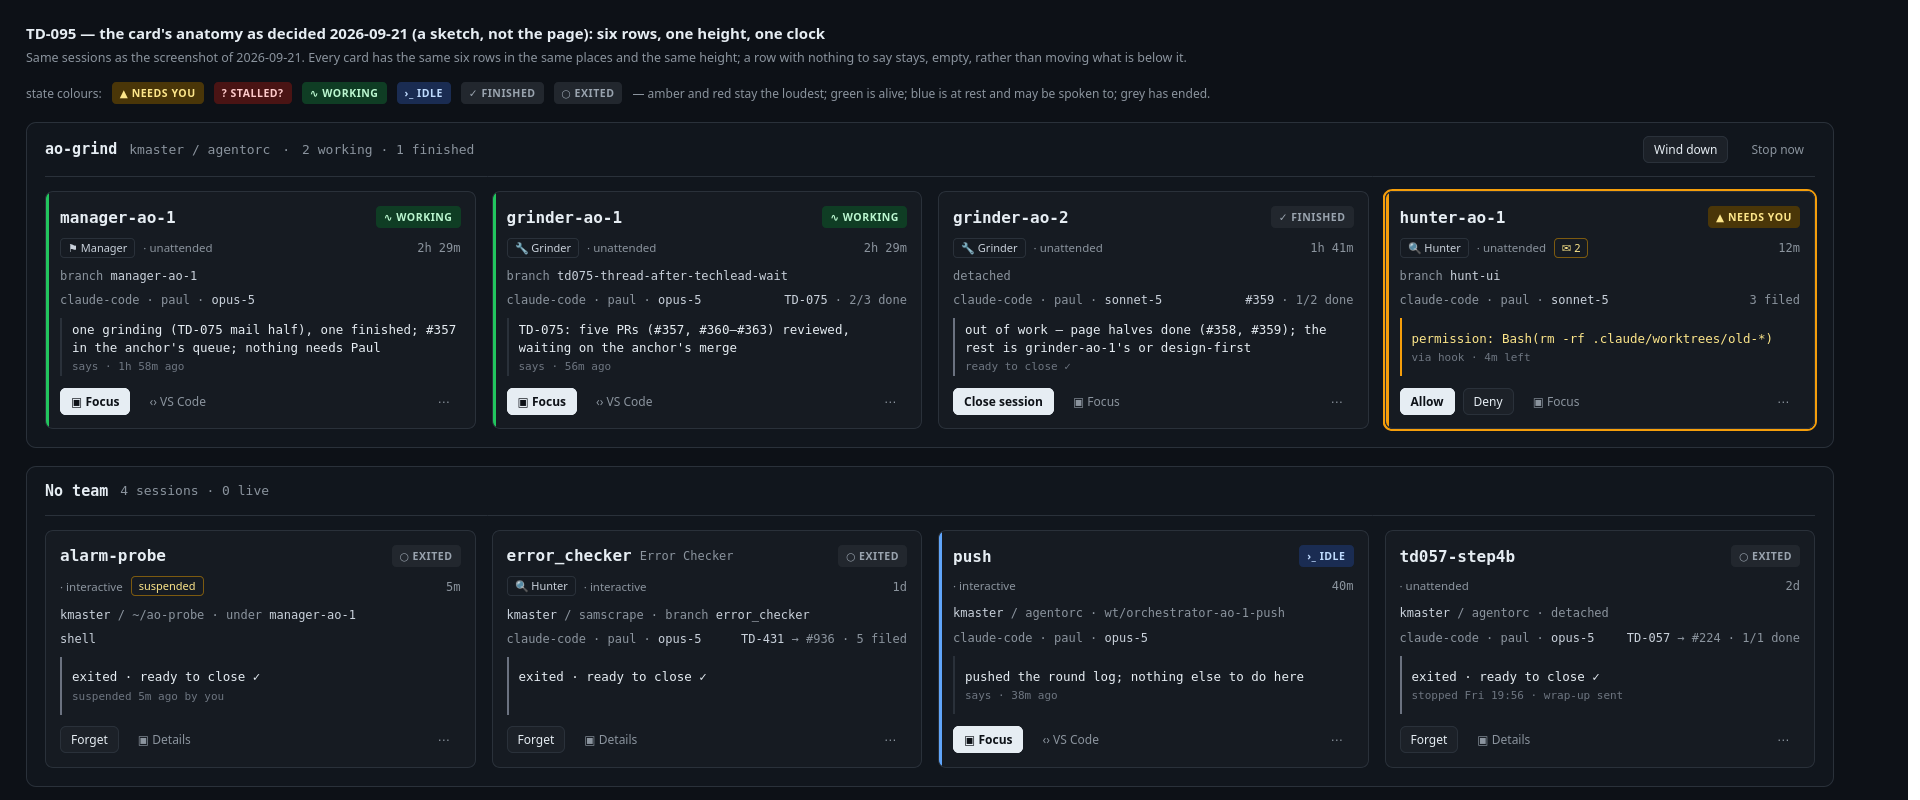
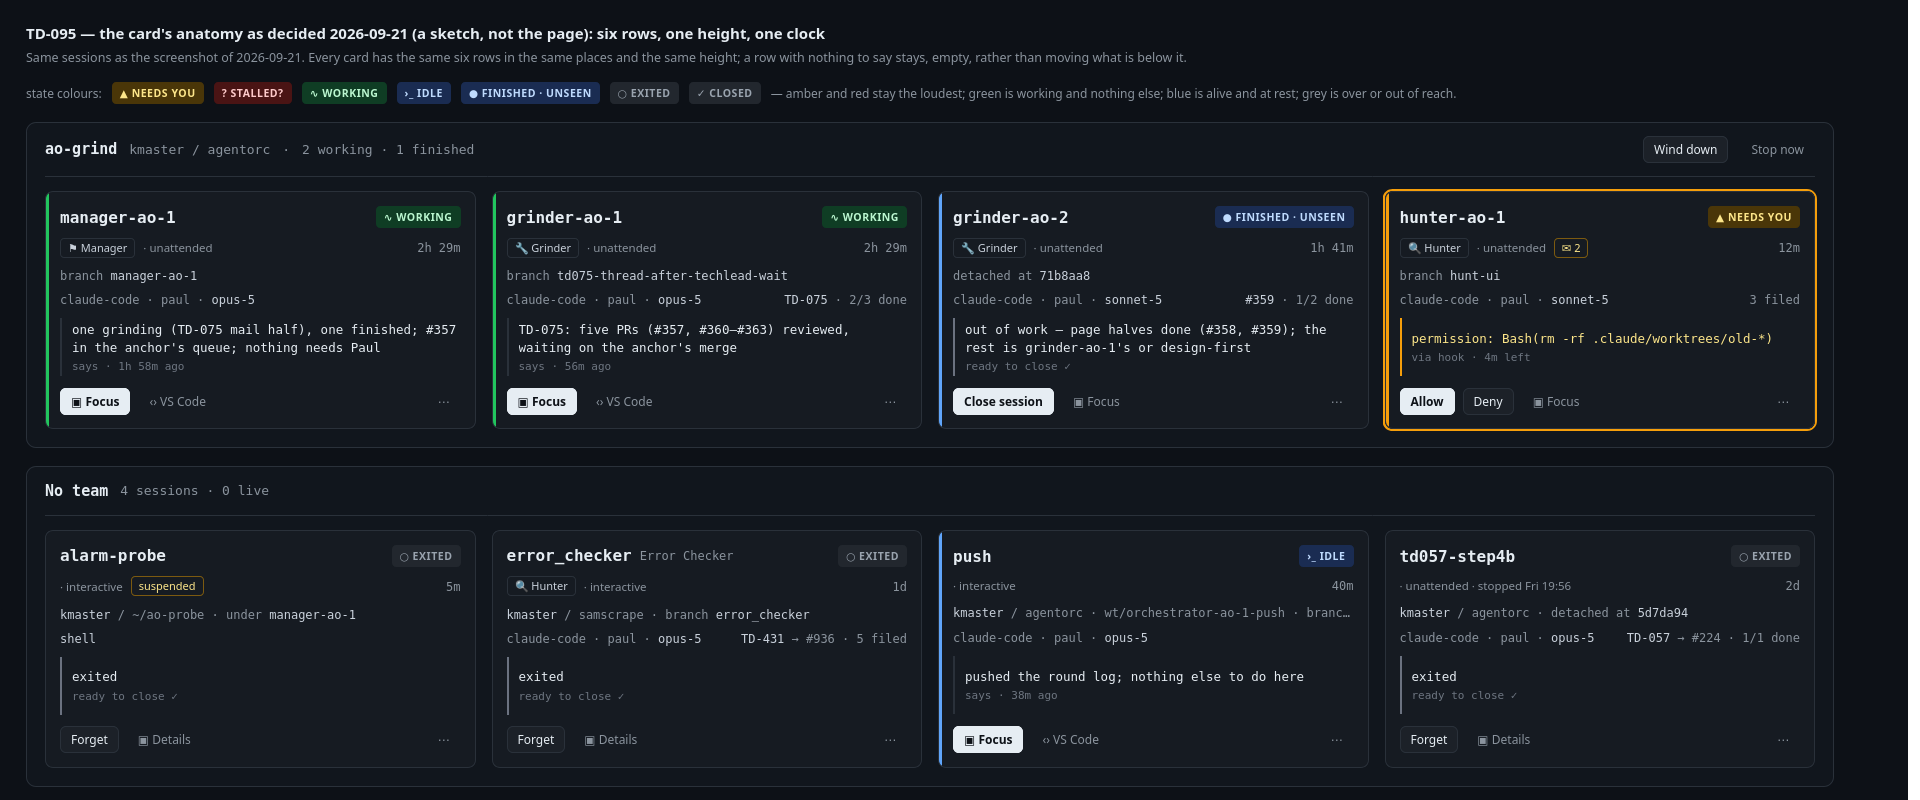
TD-095 design, review round 1: one anatomy, the slot's order, the foot by state, the pill is the state, the colours of what is over

diff --git a/docs/mockups/reviews/2026-09-21-card-proposal.html b/docs/mockups/reviews/2026-09-21-card-proposal.html
@@ -36,8 +36,8 @@ ol{font:12.5px/1.6 system-ui;color:#c9d1db;margin:6px 0 0;padding-left:20px;colu
 <h1>TD-095 — the card's anatomy as decided 2026-09-21 (a sketch, not the page): six rows, one height, one clock</h1>
 <p class="k">Same sessions as the screenshot of 2026-09-21. Every card has the same six rows in the same places and the same height; a row with nothing to say stays, empty, rather than moving what is below it.</p>
 <div class="legend">state colours:
- <span class="pill p-n">▲ needs you</span><span class="pill p-s">? stalled?</span><span class="pill p-w">∿ working</span><span class="pill p-i">›_ idle</span><span class="pill p-e">✓ finished</span><span class="pill p-e">○ exited</span>
- <span>— amber and red stay the loudest; green is alive; blue is at rest and may be spoken to; grey has ended.</span></div>
+ <span class="pill p-n">▲ needs you</span><span class="pill p-s">? stalled?</span><span class="pill p-w">∿ working</span><span class="pill p-i">›_ idle</span><span class="pill p-i">● finished · unseen</span><span class="pill p-e">○ exited</span><span class="pill p-e">✓ closed</span>
+ <span>— amber and red stay the loudest; green is working and nothing else; blue is alive and at rest; grey is over or out of reach.</span></div>
 
 <div class="grp">
  <div class="gh"><span class="t">ao-grind</span><span class="m">kmaster / agentorc</span><span class="m">·</span><span class="m">2 working · 1 finished</span><span class="grow"></span><span class="btn">Wind down</span><span class="btn g">Stop now</span></div>
@@ -56,9 +56,9 @@ ol{font:12.5px/1.6 system-ui;color:#c9d1db;margin:6px 0 0;padding-left:20px;colu
    <div class="slot"><div class="clamp">TD-075: five PRs (#357, #360–#363) reviewed, waiting on the anchor's merge</div><div class="says">says · 56m ago</div></div>
    <div class="f"><span class="btn p">▣ Focus</span><span class="btn g">‹› VS Code</span><span class="grow"></span><span class="btn g">⋯</span></div></div>
 
-  <div class="c"><div class="r r1"><span class="n">grinder-ao-2</span><span class="grow"></span><span class="pill p-e">✓ finished</span></div>
+  <div class="c i"><div class="r r1"><span class="n">grinder-ao-2</span><span class="grow"></span><span class="pill p-i">● finished · unseen</span></div>
    <div class="r" style="margin-top:6px"><span class="b">🔧 Grinder</span><span class="mode">· unattended</span><span class="grow"></span><span class="meta">1h 41m</span></div>
-   <div class="r" style="margin-top:6px"><span class="meta">detached</span></div>
+   <div class="r" style="margin-top:6px"><span class="meta">detached at <b>71b8aa8</b></span></div>
    <div class="r" style="margin-top:4px"><span class="meta">claude-code · paul · <b>sonnet-5</b></span><span class="grow"></span><span class="meta"><b>#359</b> · 1/2 done</span></div>
    <div class="slot ok"><div class="clamp">out of work — page halves done (#358, #359); the rest is grinder-ao-1's or design-first</div><div class="says">ready to close ✓</div></div>
    <div class="f"><span class="btn p">Close session</span><span class="btn g">▣ Focus</span><span class="grow"></span><span class="btn g">⋯</span></div></div>
@@ -79,28 +79,28 @@ ol{font:12.5px/1.6 system-ui;color:#c9d1db;margin:6px 0 0;padding-left:20px;colu
    <div class="r" style="margin-top:6px"><span class="mode">· interactive</span><span class="b mark">suspended</span><span class="grow"></span><span class="meta">5m</span></div>
    <div class="r" style="margin-top:6px"><span class="meta"><b>kmaster</b> / ~/ao-probe · under <b>manager-ao-1</b></span></div>
    <div class="r" style="margin-top:4px"><span class="meta"><b>shell</b></span><span class="grow"></span><span class="meta"></span></div>
-   <div class="slot ok"><div>exited · ready to close ✓</div><div class="says">suspended 5m ago by you</div></div>
+   <div class="slot ok"><div>exited</div><div class="says">ready to close ✓</div></div>
    <div class="f"><span class="btn">Forget</span><span class="btn g">▣ Details</span><span class="grow"></span><span class="btn g">⋯</span></div></div>
 
   <div class="c"><div class="r r1"><span class="n">error_checker</span><span class="tt">Error Checker</span><span class="grow"></span><span class="pill p-e">○ exited</span></div>
    <div class="r" style="margin-top:6px"><span class="b">🔍 Hunter</span><span class="mode">· interactive</span><span class="grow"></span><span class="meta">1d</span></div>
    <div class="r" style="margin-top:6px"><span class="meta"><b>kmaster</b> / samscrape · branch <b>error_checker</b></span></div>
    <div class="r" style="margin-top:4px"><span class="meta">claude-code · paul · <b>opus-5</b></span><span class="grow"></span><span class="meta"><b>TD-431</b> → #936 · 5 filed</span></div>
-   <div class="slot ok"><div>exited · ready to close ✓</div><div class="says">&nbsp;</div></div>
+   <div class="slot ok"><div>exited</div><div class="says">ready to close ✓</div></div>
    <div class="f"><span class="btn">Forget</span><span class="btn g">▣ Details</span><span class="grow"></span><span class="btn g">⋯</span></div></div>
 
   <div class="c i"><div class="r r1"><span class="n">push</span><span class="grow"></span><span class="pill p-i">›_ idle</span></div>
    <div class="r" style="margin-top:6px"><span class="mode">· interactive</span><span class="grow"></span><span class="meta">40m</span></div>
-   <div class="r" style="margin-top:6px"><span class="meta"><b>kmaster</b> / agentorc · wt/orchestrator-ao-1-push</span></div>
+   <div class="r" style="margin-top:6px"><span class="meta"><b>kmaster</b> / agentorc · wt/orchestrator-ao-1-push · branch <b>orchestrator-ao-1-push</b></span></div>
    <div class="r" style="margin-top:4px"><span class="meta">claude-code · paul · <b>opus-5</b></span><span class="grow"></span><span class="meta"></span></div>
    <div class="slot"><div class="clamp">pushed the round log; nothing else to do here</div><div class="says">says · 38m ago</div></div>
    <div class="f"><span class="btn p">▣ Focus</span><span class="btn g">‹› VS Code</span><span class="grow"></span><span class="btn g">⋯</span></div></div>
 
   <div class="c"><div class="r r1"><span class="n">td057-step4b</span><span class="grow"></span><span class="pill p-e">○ exited</span></div>
-   <div class="r" style="margin-top:6px"><span class="mode">· unattended</span><span class="grow"></span><span class="meta">2d</span></div>
-   <div class="r" style="margin-top:6px"><span class="meta"><b>kmaster</b> / agentorc · detached</span></div>
+   <div class="r" style="margin-top:6px"><span class="mode">· unattended · stopped Fri 19:56</span><span class="grow"></span><span class="meta">2d</span></div>
+   <div class="r" style="margin-top:6px"><span class="meta"><b>kmaster</b> / agentorc · detached at <b>5d7da94</b></span></div>
    <div class="r" style="margin-top:4px"><span class="meta">claude-code · paul · <b>opus-5</b></span><span class="grow"></span><span class="meta"><b>TD-057</b> → #224 · 1/1 done</span></div>
-   <div class="slot ok"><div>exited · ready to close ✓</div><div class="says">stopped Fri 19:56 · wrap-up sent</div></div>
+   <div class="slot ok"><div>exited</div><div class="says">ready to close ✓</div></div>
    <div class="f"><span class="btn">Forget</span><span class="btn g">▣ Details</span><span class="grow"></span><span class="btn g">⋯</span></div></div>
  </div>
 </div>

diff --git a/docs/design.md b/docs/design.md
@@ -1190,11 +1190,8 @@ agent there.
 Screens:
 
 1. **Org** (home; named Herd, then Team, until the team definitions of §4.9 landed): a **card grid** (decision 2026-09-04, over a table — keeps each session's
-   facts grouped and shows a live tail), grouped by team when any live session carries a team badge (§4.9). Each card: host/repo (or host/directory), name, age,
-   state pill, profile line (`shell` for a shell), where (checkout, worktree → branch, or
-   directory), dirty/unpushed flag, then either the pending permission with Allow / Deny (hook
-   channel, §4.2), a pending question with Focus, the reset time with Switch profile / Wait, or
-   the last output lines; buttons Focus / VS Code / more. The **more** menu holds Wrap up, Kill
+   facts grouped and shows a live tail), grouped by team when any live session carries a team badge (§4.9). What a card carries, and where, is *The card's anatomy*, below (until it is built the page draws the 2026-09-04 card: host/repo, name, age, state pill, profile line, where, the dirty / unpushed flag, a slot, and Focus / VS Code / more).
+   The **more** menu holds Wrap up, Kill
    (confirms), Close (enabled only when Ready to close passes; a card that passes also shows it
    inline, see §4.2), Open shell here, Copy tmux command. A scraped state shows as a dashed pill outline.
    **The card's anatomy (2026-09-21, TD-095; decided with Paul from a screenshot of the live page,
@@ -1209,17 +1206,38 @@ Screens:
    (*unattended* / *interactive* — not a chip and not pressable; its toggle is in **more** and on
    the Focus header), the marks (unread, identity, suspended), and at the right **the one clock on
    a card**: how long it has been in this state — the record's `since`, counted in the browser,
-   which costs nothing to know. (3) **the branch**, alone and at full width, shortened in the
-   middle so both ends read, whole on hover; the worktree is named only when it is not the
-   session's own, and the dirty / unpushed flag sits at the right. (4) **what runs it, and what it
+   which costs nothing to know. (3) **where**, alone and at full width: `branch <name>`, the name shortened in the middle so
+   both ends read and whole on hover; `detached at <short sha>` for a detached HEAD; the directory
+   for a session with no repo (a shell, a plain directory); `wt/<name> ·` in front **only when the
+   worktree is not the session's own name**; and, **outside a team's own group, `host / repo ·`
+   (or `host / directory`) in front of all of it** — inside one the header says it. The dirty /
+   unpushed flag sits at the right. (4) **what runs it, and what it
    reports**: tool · account · model at the left — on every card, since a team's members commonly
    differ — and the report line at the right, **a reference shown once** (`#359 · 1/2 done`, never
    `#359 → #359`). (5) **the slot**, always two lines and a caption, a longer text clamped with
-   the whole of it on hover and in Focus: what needs a person, else what the session says it is
-   doing, else how it ended and what is next. (6) **the foot**, whose **first button is the next
-   act** — Allow, Close session, Forget, else Focus. **An ending is said once per place**: the pill
-   says the state; the slot says *out of work* and the first line of its reason, or *exited · code
-   1*, with *ready to close ✓* as its caption; the button does it. Nothing on a card carries a
+   the whole of it on hover and in Focus. **One text, the first that applies** — the order §4.5a's
+   **doing** row already has, with the endings named: (a) **what needs a person or explains a
+   stop** — the pending permission or question, a `limited` session's reset text, a `stalled?`
+   rule's note, an unreachable host's reason (today's `host_note` row); (b) **an ending** —
+   `exited · code N`, `closed by you`, or a declaration, *out of work* or *restart wanted* (an
+   early one says *early — for a person*), the fixed words and then the first line of its reason;
+   (c) **what the session says it is doing**, working or idle; (d) the last output line, or *at
+   prompt*. **The caption, the first that applies**: the time a pending answer has left (*via hook
+   · 4m left*); ***ready to close ✓*** whenever the checklist passes — which is where that fact
+   now lives, whatever the text above it, so an idle session that passes keeps its last word in
+   the slot and gains the caption and the button; *says · `<age>`* under a `doing` line; else
+   empty. The **stops** note (§6) joins row 2, as plain text after the mode. (6) **the foot**,
+   whose **first button is the next act, by state** — this moves Allow / Deny, Close session,
+   Forget and Switch profile / Wait **out of the slot, where the 2026-09-04 card drew them, into
+   the foot**, which is new work for the page: `needs-you` with a hook permission → **Allow**,
+   **Deny**; `limited` → **Switch profile…**, **Wait**; *ready to close ✓* → **Close session**;
+   `exited` → **Forget**; `closed`, or a pane that is gone → **Details**; everything else —
+   `working`, `idle`, `stalled?`, a question to answer in the terminal — → **Focus**. Then Focus
+   (or Details) as a quiet button where it was not first, **VS Code**, and **more** at the right. **An ending is said once per place**: the pill
+   says the **state and nothing else** — a session that declared itself out of work is still
+   `idle` (*finished · unseen* until a person has looked, §4.2), since a declaration is not a state
+   (§4.9a), and the first sketch's grey *finished* pill was the sketch's mistake; the slot says how
+   it ended; the caption says *ready to close ✓*; the button does it. Nothing on a card carries a
    second age. **Inside a team's own group a card drops what the group says**: its `team` badge,
    and *under `<manager>`* when that is its only controller; outside one — *No team*, a filtered
    or flat grid — both are drawn, and host / repo leads row 3. **The team's header** carries the
@@ -1227,11 +1245,17 @@ Screens:
    team's marks and its controls — and **not** its manager's name, state or report, which are on
    the manager's card, the first in the group. The *No team* group is headed by its count and by
    nothing else. **Colour (tokens, both themes, contrast checked):** *working* is **green** —
-   alive; *idle* is **blue** — alive, at rest, and may be spoken to; everything that has ended
-   (*finished*, *exited*, *closed*) is one grey, and *ready to close ✓* is no longer green, so
-   green means one thing; amber *needs you* (ringed) and red *stalled?* stay the loudest things
+   alive; *idle* is **blue** — alive, at rest, and may be spoken to; *finished · unseen* is idle's blue with its own glyph and words, as today — it is `idle` in
+   every payload (§4.2); everything that is over or out of reach (*exited*, *closed*,
+   *unreachable*, which keeps its dimmed card) is one grey, so the stylesheet's shared rule for
+   idle / exited / unreachable is split; *ready to close ✓* and *closed by you* are drawn in the
+   neutral text colour with a grey rule, no longer green, so **on a card green means working and
+   nothing else** (Focus's checklist keeps its green ticks — a different thing on a different
+   page); the `--done` token goes from the card; amber *needs you* (ringed) and red *stalled?* stay the loudest things
    on the page, and *limited* keeps its violet. Blue stays the accent for what is new (unread,
-   *new* mail). **One order, no control**
+   *new* mail) — an idle card with unread mail is blue twice, which reads rightly: it is at rest
+   and has been spoken to. The legend (`docs/mockups/gen.py`, *States & badges*) changes with the
+   tokens. **One order, no control**
    (2026-09-18): inside a group the manager's card, then by urgency (`needs-you` → `limited` →
    `stalled?` → `unreachable` on a non-volatile host → `working` → unseen `idle` (§4.2) → `idle` /
    `unreachable` on a volatile host → `exited` → `closed`); between groups, a live team with a
@@ -1468,7 +1492,7 @@ noted). If a control is not in this table it does not exist.
 | card / Focus header | **stops** note | when an unattended session's `run_until` falls due, in the host's local clock — *stops 06:00*, or *stops Mon 06:00* when it is not today, and *· wrap-up sent* once the host agent has asked. Shown only when something will stop the session; the same formatter `ao status -v` uses (§6, TD-026) — landed 2026-09-13. On **Focus** it is also the control that edits it: click it for a time (`06:00`, `+8h`, an ISO time), empty to clear, and the host agent parses and refuses exactly as `ao until` does. Drawn there only for an unattended session — a stop time is a policy and policies leave an interactive session alone (§4.2), so the host agent refuses one either way and a control that is always refused is worse than none. A session with no stop time shows a dim *no stop time* rather than nothing, since "nothing will stop this" is the fact a person opening Focus most needs. Setting a **different** time is a new run and the wrap-up is asked again; re-confirming the same one is not, so looking at the control during a wrap-up grace cannot ask twice or defer the kill — landed 2026-09-14 |
 | New session | **Until** field | the stop time the session starts with: `06:00` (the next one, in your clock), `+8h`, or an ISO time. Refused on a session that is not **Unattended**, since policies leave interactive sessions alone (§4.2); empty means nothing stops it, which is what every session was before (§6, TD-026) — landed 2026-09-13 |
 | card / Focus header | **out of work** chip | when the record carries `out_of_work`: the words and the `why` on hover, beside the report line. **On a card it moves into the slot** (design 2026-09-21, TD-095, not built): the fixed words, then the first line of the reason as text, clamped, the whole of it and the time of the declaration on hover — and **no age of its own**, since a card has one clock; the Focus header keeps the chip. Not a state — the session still reads `idle` or `exited` (§4.2, the unseen-idle rule) — and shown for any session that declared it, since a hand-started worker may run out too (§4.9a) — design 2026-09-14, built 2026-09-17, TD-053 step 6. The words are fixed and the reason is the hover: a `why` names every entry the session looked at and what gates each, which a card cannot hold. The row is drawn for a declaration even when neither report channel has anything in it |
-| card / Focus header | **restart wanted** chip | design 2026-09-20, TD-083; the field it draws from is **built** (step 1, 2026-09-21) and **the chip is built 2026-09-20** (step 2) — when the record carries `restart_wanted`: fixed words, the `why` on hover as text, beside the report line, exactly as the *out of work* chip is and for the same reason: a **mark**, never pressable, and not a state — the session still reads `idle` or `exited`. It goes when the record does: a restart supersedes the record in place (§4.1) and the new one carries none. Nothing on the page restarts a session from it: the restart is its controller's act, or a person's own **New session here** (§4.9a *A run that ends with work left*). **An `early` one says so on the chip and in its hover** (2026-09-20, the build): the home marks a restart asked for inside `RESTART_EARLY` of the record's own start, and a controller **does not act on one** — so an early chip that read like an ordinary one would promise a restart that is not coming, and it is drawn as wanting a person instead |
+| card / Focus header | **restart wanted** chip | **on a card it moves into the slot with *out of work*, as an ending (design 2026-09-21, TD-095, not built; §4.5 *The card's anatomy*) — the Focus header keeps the chip.** Design 2026-09-20, TD-083; the field it draws from is **built** (step 1, 2026-09-21) and **the chip is built 2026-09-20** (step 2) — when the record carries `restart_wanted`: fixed words, the `why` on hover as text, beside the report line, exactly as the *out of work* chip is and for the same reason: a **mark**, never pressable, and not a state — the session still reads `idle` or `exited`. It goes when the record does: a restart supersedes the record in place (§4.1) and the new one carries none. Nothing on the page restarts a session from it: the restart is its controller's act, or a person's own **New session here** (§4.9a *A run that ends with work left*). **An `early` one says so on the chip and in its hover** (2026-09-20, the build): the home marks a restart asked for inside `RESTART_EARLY` of the record's own start, and a controller **does not act on one** — so an early chip that read like an ordinary one would promise a restart that is not coming, and it is drawn as wanting a person instead |
 | Org | team card: **wound down** note | a definition with nothing live whose sessions all declared `out_of_work` reads *wound down <t>* instead of *stopped*: *nothing running* and *nothing left to run* are different facts about a team (§4.9a) — design 2026-09-14, built 2026-09-17, TD-053 step 6; on the team's card since 2026-09-18, re-rendered with the header on every delta, so it appears without a reload. All or nothing, and read from the records rather than from any count of ledger rows: one member's exhaustion is not the team's, and a single session that never declared means the team stopped for some other reason. A definition nothing has ever carried is neither. `ao team list` says the same word from the same rows, so the page and the CLI cannot disagree about one definition |
 | card | **team** badge | the `team` the session was started under (§4.9), a badge like `role`; click filters the grid to that team — landed 2026-09-13. **Not drawn inside that team's own group** (design 2026-09-21, TD-095, not built); drawn in *No team*, and in a filtered or flat grid |
 | card (closed, or exited with `pane: false`) | **Details** | the Focus page without a terminal (the pane is gone); the banner offers Resume / New session here / Forget |
@@ -3901,8 +3925,8 @@ a schedule, and a grant never carries one either. A directory session (no repo) 
 ## 6. Policies (the tdgrind supervisor, generalized)
 
 Each runs on the host agent's tick, per repo, only for sessions whose record says
-`unattended: true` (set at start by the New session switch, or flipped later by the badge
-toggle on the card or Focus header; interactive sessions are exempt from gates). Mode is a
+`unattended: true` (set at start by the New session switch, or flipped later by the mode
+toggle — on the Focus header, and in a card's *more* (on the card's badge until TD-095 is built); interactive sessions are exempt from gates). Mode is a
 field on the session record, never re-derived from the brief or the name, and a flip takes
 effect on the next tick without restarting the session. The brief file is required only when
 a *policy* starts a worker; a session flipped to unattended keeps whatever it was doing.
